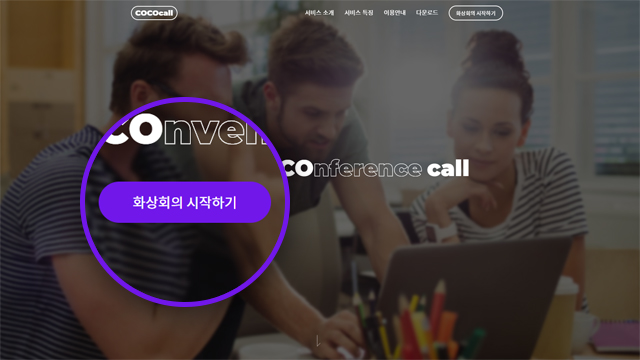
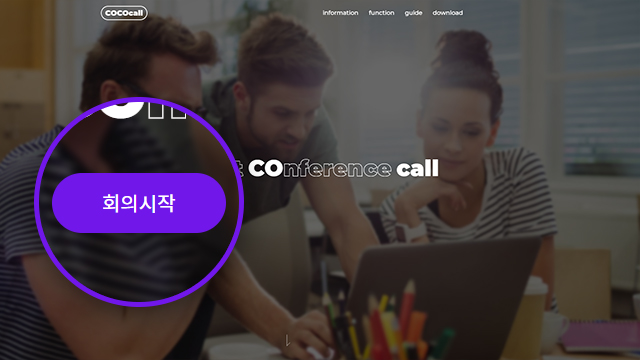
메인 - 가이드 변경

diff --git a/src/views/Main.vue b/src/views/Main.vue
@@ -119,14 +119,14 @@
                         <img src="../assets/images/img_guide_01.jpg" alt="STEP 1">
                      </div>
                      <strong class="wow animate__animated animate__fadeInUp">STEP 1</strong>
-                     <p class="wow animate__animated animate__fadeInUp"  data-wow-delay=".2s">메인화면에서 '화상회의 시작하기' 버튼을 클릭하면 화상회의가 시작됩니다.</p>
+                     <p class="wow animate__animated animate__fadeInUp"  data-wow-delay=".2s">메인화면에서 '회의시작' 버튼을 클릭하면 화상회의가 시작됩니다.</p>
                   </li>
                   <li>
                      <div class="img">
                         <img src="../assets/images/img_guide_02.jpg" alt="STEP 2">
                      </div>
                      <strong class="wow animate__animated animate__fadeInUp"  data-wow-delay=".2s">STEP 2</strong>
-                     <p class="wow animate__animated animate__fadeInUp"  data-wow-delay=".3s">회의가 시작되기 전에 원하는 디바이스로 설정할 수 있습니다.</p>
+                     <p class="wow animate__animated animate__fadeInUp"  data-wow-delay=".3s">화상회의에 필요한 카메라, 마이크, 스피커 디바이스를 확인 할 수 있습니다.</p>
                   </li>
                   <li>
                      <div class="img">
@@ -147,7 +147,7 @@
                         <img src="../assets/images/img_guide_05-1.jpg" alt="STEP 5-1">
                      </div>
                      <strong class="wow animate__animated animate__fadeInUp">STEP 5-1</strong>
-                     <p class="wow animate__animated animate__fadeInUp"  data-wow-delay=".2s">초대받은 사용자는 인터넷 브라우저에 URL을 입력하면 바로 회의에 참석됩니다.</p>
+                     <p class="wow animate__animated animate__fadeInUp"  data-wow-delay=".2s">초대받은 사용자는 인터넷 브라우저에 바로 URL을 입력하거나 COCOcall 메인에서 '회의참여'에 URL을 입력하면 회의에 참석됩니다.</p>
                   </li>
                   <li>
                      <div class="img">
@@ -168,7 +168,7 @@
                         <img src="../assets/images/img_guide_07.jpg" alt="STEP 7">
                      </div>
                      <strong class="wow animate__animated animate__fadeInUp"  data-wow-delay=".2s">STEP 7</strong>
-                     <p class="wow animate__animated animate__fadeInUp"  data-wow-delay=".3s">메뉴에서 카메라/오디오를 On/Off 할 수 있습니다.</p>
+                     <p class="wow animate__animated animate__fadeInUp"  data-wow-delay=".3s">메뉴에서 카메라, 오디오를 On/Off 할 수 있습니다.</p>
                   </li>
                   <li>
                      <div class="img">
